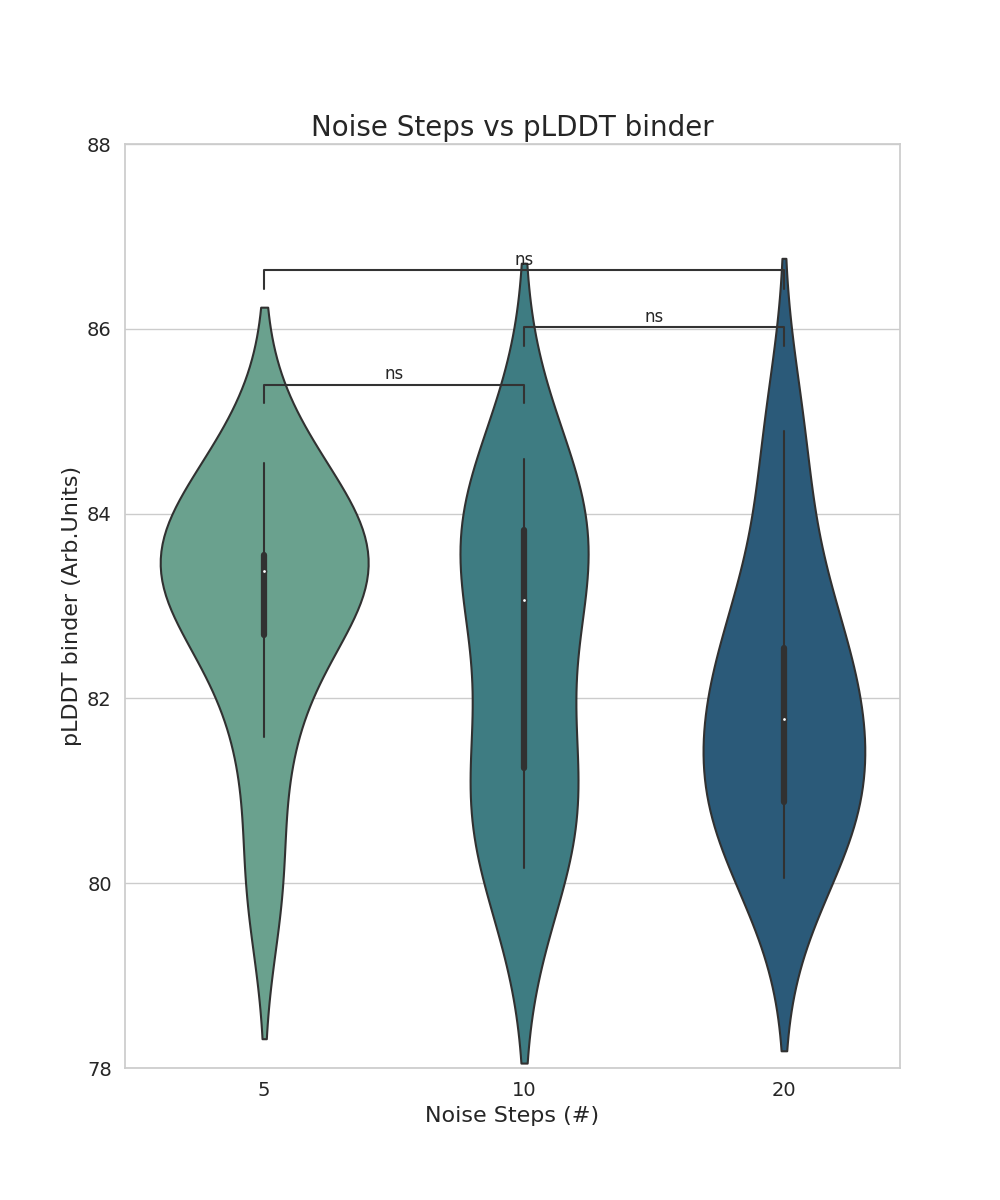
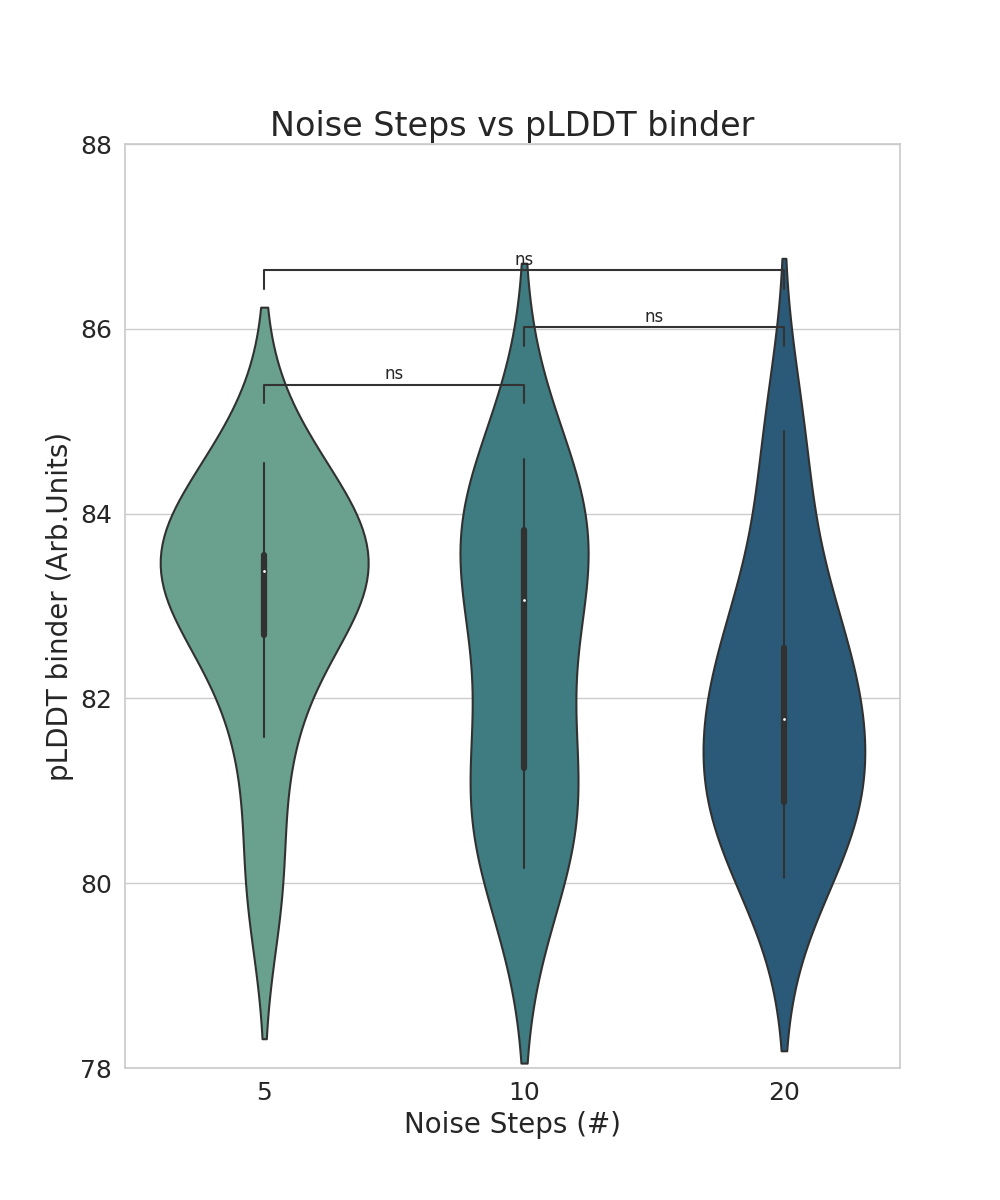
figures

diff --git a/FIGURES/Figure_noise_steps.py b/FIGURES/Figure_noise_steps.py
@@ -34,18 +34,19 @@ print(percentage)
 df_barplot['Percentage']=percentage
 #Barplot success rate
 plt.figure(figsize=(10, 12))
+sns.set_theme(style='whitegrid')
 barplot = sns.barplot(x='Noise', y='Percentage', data=df_barplot, palette='crest')
 
 # Add titles and labels
-plt.title('Noise Steps Success Rates', fontsize=20)
-plt.ylabel('Hits Success Rate (%)', fontsize=16)
+plt.title('Noise Steps Success Rates', fontsize=24)
+plt.ylabel('Hits Success Rate (%)', fontsize=20)
 
-plt.xlabel('Noise Steps (#)', fontsize=16)
+plt.xlabel('Noise Steps (#)', fontsize=20)
 barplot.set_xticklabels((f'5\n n={len( df_whole[df_whole["Noise_Steps"]==5])}', 
                          f'10\n n={len(df_whole[df_whole["Noise_Steps"]==10])}', 
                          f'20\n n={len(df_whole[df_whole["Noise_Steps"]==20])}', 
-                         f'30\n n={len(df_whole[df_whole["Noise_Steps"]==30])}'), fontsize=14)
-plt.tick_params(axis='y', labelsize=14)
+                         f'30\n n={len(df_whole[df_whole["Noise_Steps"]==30])}'), fontsize=18)
+plt.tick_params(axis='y', labelsize=18)
 # Show the plot
 plt.ylim((0,0.07))
 plt.savefig('/home/cchacon/Carlos_scripts/FIGURES/barplot_noisesteps.png')
@@ -74,11 +75,11 @@ sns.pointplot(data=df_filtered, x='Noise', y='RMSD', hue= 'Noise', palette='cres
 
 # Plot the regression line
 # sns.lineplot(x=X, y=y_pred, label=f'$r$={r_value:.2f}', color='red', ax=ax) ##Doesn't work##
-plt.title('RMSD vs Noise Steps', fontsize=20)
-plt.xlabel('Noise Steps (#)', fontsize=16)
-plt.ylabel(f'RMSD ($\AA$)', fontsize=16)
-plt.tick_params(axis='y', labelsize=14)
-plt.tick_params(axis='x', labelsize=14)
+plt.title('RMSD vs Noise Steps', fontsize=24)
+plt.xlabel('Noise Steps (#)', fontsize=20)
+plt.ylabel(f'RMSD ($\AA$)', fontsize=20)
+plt.tick_params(axis='y', labelsize=18)
+plt.tick_params(axis='x', labelsize=18)
 plt.legend(title='Noise Steps')
 plt.savefig('/home/cchacon/Carlos_scripts/FIGURES/NoiseStepsRMSD.png')
 
@@ -103,11 +104,11 @@ annotator.configure(
     comparisons_correction="bonferroni")
     
 annotator.apply_and_annotate()
-plt.title('RMSD vs Noise Steps', fontsize=20)
-plt.ylabel(f'RMSD ($\AA$)', fontsize=16)
-plt.xlabel('Noise Steps(#)', fontsize=16)
-plt.tick_params(axis='y', labelsize=14)
-plt.tick_params(axis='x', labelsize=14)
+plt.title('RMSD vs Noise Steps', fontsize=24)
+plt.ylabel(f'RMSD ($\AA$)', fontsize=20)
+plt.xlabel('Noise Steps(#)', fontsize=20)
+plt.tick_params(axis='y', labelsize=18)
+plt.tick_params(axis='x', labelsize=18)
 
 plt.savefig('/home/cchacon/Carlos_scripts/FIGURES/violinplot_rmsd_noisesteps.png')
 
@@ -136,11 +137,11 @@ annotator.configure(
     comparisons_correction="bonferroni")
     
 annotator.apply_and_annotate()
-plt.title('Noise Steps vs PAE interaction', fontsize=20)
-plt.xlabel('Noise Steps (#)', fontsize=16)
-plt.ylabel(f'PAE interaction ($\AA$)', fontsize=16)
-plt.tick_params(axis='y', labelsize=14)
-plt.tick_params(axis='x', labelsize=14)
+plt.title('Noise Steps vs PAE interaction', fontsize=24)
+plt.xlabel('Noise Steps (#)', fontsize=20)
+plt.ylabel(f'PAE interaction ($\AA$)', fontsize=20)
+plt.tick_params(axis='y', labelsize=18)
+plt.tick_params(axis='x', labelsize=18)
 
 
 plt.savefig('/home/cchacon/Carlos_scripts/FIGURES/violinplot_pae_interaction_noise_steps.png')
@@ -167,11 +168,11 @@ annotator.configure(
     comparisons_correction="bonferroni")
     
 annotator.apply_and_annotate()
-plt.title('Noise Steps vs pLDDT binder', fontsize=20)
-plt.xlabel('Noise Steps (#)', fontsize=16)
-plt.ylabel(f'pLDDT binder (Arb.Units)', fontsize=16)
-plt.tick_params(axis='y', labelsize=14)
-plt.tick_params(axis='x', labelsize=14)
+plt.title('Noise Steps vs pLDDT binder', fontsize=24)
+plt.xlabel('Noise Steps (#)', fontsize=20)
+plt.ylabel(f'pLDDT binder (Arb.Units)', fontsize=20)
+plt.tick_params(axis='y', labelsize=18)
+plt.tick_params(axis='x', labelsize=18)
 
 
 plt.savefig('/home/cchacon/Carlos_scripts/FIGURES/violinplot_plddt_binder_noise_steps.png')
@@ -206,11 +207,11 @@ sns.scatterplot(data=df_filtered, x='plddt_binder', y='pae_interaction', hue='No
 sns.scatterplot(data=df_original, x='plddt_binder', y='pae_interaction', color='red', s=100, label='Original')
 
 # Add titles and labels
-plt.title('PAE Interaction vs. pLDDT Binder run_264', fontsize=20)
-plt.xlabel('PAE Interaction', fontsize=16)
-plt.ylabel('pLDDT Binder', fontsize=16)
-plt.tick_params(axis='y', labelsize=14)
-plt.tick_params(axis='x', labelsize=14)
+plt.title('PAE Interaction vs. pLDDT Binder run_264', fontsize=24)
+plt.xlabel('PAE Interaction', fontsize=20)
+plt.ylabel('pLDDT Binder', fontsize=20)
+plt.tick_params(axis='y', labelsize=18)
+plt.tick_params(axis='x', labelsize=18)
 
 
 # Highlight specific region with a square
